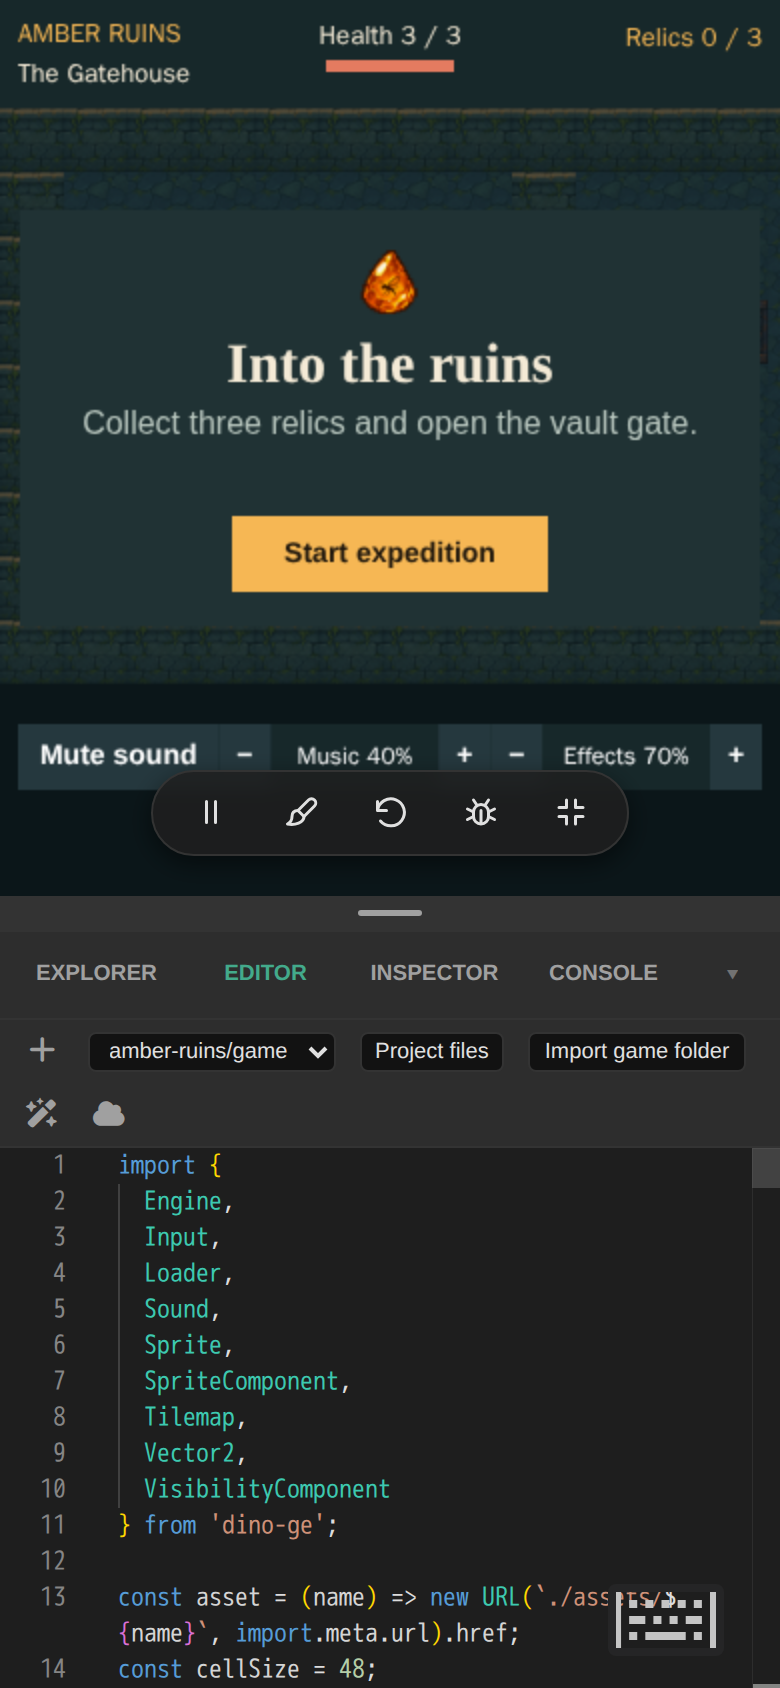
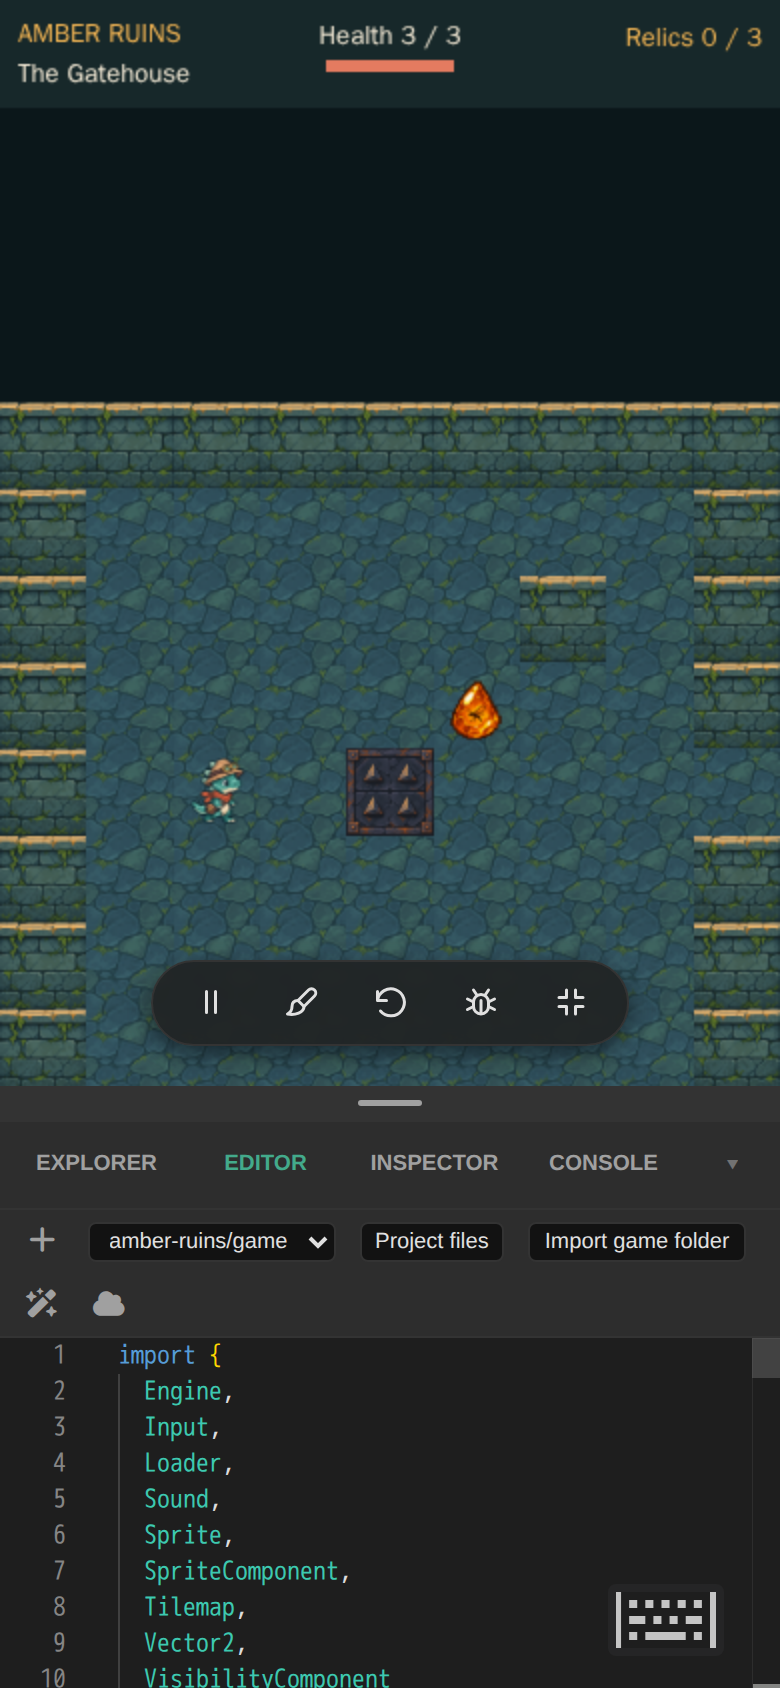
Show the mobile overlay drawer in the Playground readme

diff --git a/packages/playground/README.md b/packages/playground/README.md
@@ -38,9 +38,9 @@ Once running, access the editor and inspector at `http://localhost:3000`.
 
 ### Mobile workspace
 
-On narrow screens, Explorer, Editor, Inspector and Console share a single dock below the canvas. Drag the divider to resize the dock. In the Library, drag an object's grip up to the canvas to place it.
+On narrow screens, Explorer, Editor, Inspector and Console share a drawer over the bottom of the game. Drag the handle to change how much of the game the drawer covers. The game keeps its full window size. In the Library, drag an object's grip up to the exposed canvas to place it.
 
-<img src="https://raw.githubusercontent.com/gledrich/dino-ge/main/packages/playground/assets/mobile.png" alt="Amber Ruins running above the mobile bottom dock, with the Editor tab selected" width="390">
+<img src="https://raw.githubusercontent.com/gledrich/dino-ge/main/packages/playground/assets/mobile.png" alt="The mobile Editor drawer over the lower part of Amber Ruins" width="390">
 
 ### Script Storage
 
